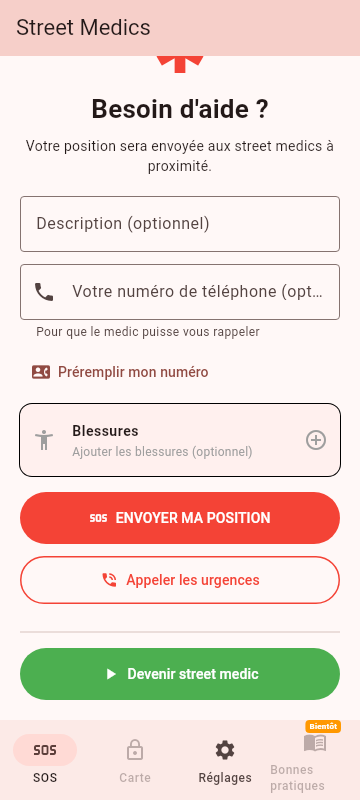
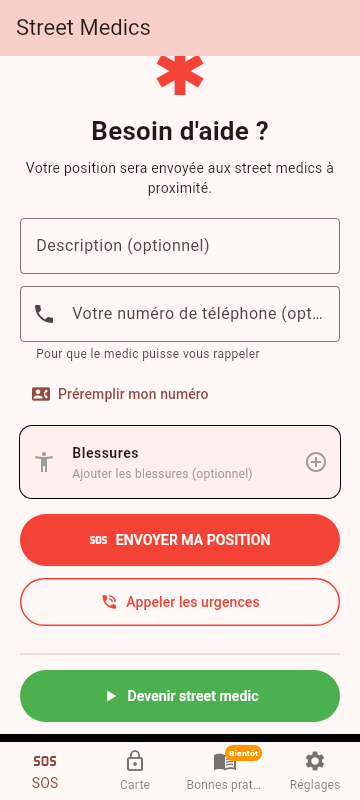
fix: BottomNavigationBar (labels centrés) + banderole Bientôt sur l'icône
- Remplace NavigationBar par BottomNavigationBar(type: fixed) pour centrer
  tous les labels (Material 3 NavigationBar ne centre que l'onglet actif)
- Banderole orange 'Bientôt' sur l'icône de l'onglet Bonnes pratiques
- Labels traduits via les clés tabSos/tabMap/tabPractices/tabSettings
- Tests adaptés: plus de NavigationBar, BottomNavigationBar.onTap

Changed region(s): [[0.0, 0.5, 1.0, 1.0], [0.0611, 0.0625, 0.9472, 0.5], [0.9167, 0.25, 0.9472, 0.2812]]

diff --git a/lib/main.dart b/lib/main.dart
@@ -258,56 +258,43 @@ class _MainScreenState extends State<MainScreen> {
           SettingsTab(),
         ],
       ),
-      bottomNavigationBar: NavigationBar(
-        selectedIndex: _selectedIndex,
-        onDestinationSelected: (i) {
+      bottomNavigationBar: BottomNavigationBar(
+        type: BottomNavigationBarType.fixed,
+        currentIndex: _selectedIndex,
+        onTap: (i) {
           // Onglet Plan réservé aux street medics en service ET aux patients
           // dont le SOS est pris en charge.
           if (i == 1 && !_mapAllowed) {
             showSnack(context, AppLocalizations.of(context).medicsOnly);
             return;
           }
+          // L'onglet Bonnes pratiques est grisé : inutile d'aller plus loin.
+          if (i == 2) return;
           setState(() => _selectedIndex = i);
         },
-        destinations: [
-          NavigationDestination(icon: const Icon(Icons.sos), label: t.tabSos),
-          NavigationDestination(
+        items: [
+          BottomNavigationBarItem(
+            icon: const Icon(Icons.sos),
+            label: t.tabSos,
+          ),
+          BottomNavigationBarItem(
             icon: Icon(_mapAllowed ? Icons.map : Icons.lock_outline),
-            enabled: _mapAllowed,
             label: t.tabMap,
           ),
-          NavigationDestination(
-              icon: const Icon(Icons.settings), label: t.tabSettings),
-          NavigationDestination(
-              icon: Stack(
-                clipBehavior: Clip.none,
-                children: [
-                  const Icon(Icons.menu_book),
-                  // Banderole « Coming Soon » sur l'icône
-                  Positioned(
-                    right: -14,
-                    top: -10,
-                    child: Container(
-                      padding: const EdgeInsets.symmetric(
-                          horizontal: 4, vertical: 1),
-                      decoration: BoxDecoration(
-                        color: Colors.orange,
-                        borderRadius: BorderRadius.circular(4),
-                      ),
-                      child: Text(
-                        'Bientôt',
-                        style: TextStyle(
-                          fontSize: 8,
-                          fontWeight: FontWeight.bold,
-                          color: Colors.white,
-                        ),
-                      ),
-                    ),
-                  ),
-                ],
+          BottomNavigationBarItem(
+            icon: Badge(
+              label: Text(
+                'Bientôt',
+                style: const TextStyle(fontSize: 8, color: Colors.white),
               ),
-              label: t.tabPractices,
-              enabled: false, // grisé : contenu pas encore prêt
+              backgroundColor: Colors.orange,
+              child: const Icon(Icons.menu_book),
+            ),
+            label: t.tabPractices,
+          ),
+          BottomNavigationBarItem(
+            icon: const Icon(Icons.settings),
+            label: t.tabSettings,
           ),
         ],
       ),

diff --git a/test/map_zoom_test.dart b/test/map_zoom_test.dart
@@ -28,12 +28,18 @@ void main() {
     await tester.pumpWidget(const StreetMedicsApp());
     await tester.pump(const Duration(milliseconds: 100));
 
+    // Fermer la popup « Autorisations nécessaire » si elle est ouverte.
+    final later = find.text('Plus tard');
+    if (later.evaluate().isNotEmpty) {
+      await tester.tap(later.first, warnIfMissed: false);
+      await tester.pump();
+      await tester.pump(const Duration(milliseconds: 400));
+    }
     // Aller sur l'onglet Carte via la barre de navigation.
-    // `pump()` et non `pumpAndSettle()` : la carte arme un `Timer.periodic`
     // de rafraîchissement qui ne s'arrête jamais, et `pumpAndSettle()` attend
     // qu'aucun timer ne soit actif — il boucle alors indéfiniment.
-    final nav = tester.widget<NavigationBar>(find.byType(NavigationBar));
-    nav.onDestinationSelected!(1);
+    final nav = tester.widget<BottomNavigationBar>(find.byType(BottomNavigationBar));
+    nav.onTap!(1);
     await tester.pump();
     await tester.pump(const Duration(milliseconds: 300));
 

diff --git a/test/map_controls_test.dart b/test/map_controls_test.dart
@@ -18,8 +18,16 @@ import 'package:street_medics_app/main.dart';
 /// indéfiniment et le test n'aboutit pas. `pump()` avance d'une frame, ce qui
 /// suffit à construire l'onglet.
 Future<void> selectTab(WidgetTester tester, int index) async {
-  final nav = tester.widget<NavigationBar>(find.byType(NavigationBar));
-  nav.onDestinationSelected!(index);
+  // Fermer la popup « Autorisations nécessaires » si elle est ouverte :
+  // elle masque la barre de navigation et empêche de taper sur les onglets.
+  final later = find.text('Plus tard');
+  if (later.evaluate().isNotEmpty) {
+    await tester.tap(later.first, warnIfMissed: false);
+    await tester.pump();
+    await tester.pump(const Duration(milliseconds: 400));
+  }
+  final nav = tester.widget<BottomNavigationBar>(find.byType(BottomNavigationBar));
+  nav.onTap!(index);
   await tester.pump();
   await tester.pump(const Duration(milliseconds: 300));
 }

diff --git a/test/ui_inventory_test.dart b/test/ui_inventory_test.dart
@@ -118,10 +118,10 @@ Future<void> shoot(WidgetTester tester, String name) async {
   });
 }
 
-/// Ouvre un onglet par son index (contourne le hit-test du NavigationBar).
+/// Ouvre un onglet par son index.
 Future<void> tab(WidgetTester tester, int i) async {
-  final nav = tester.widget<NavigationBar>(find.byType(NavigationBar));
-  nav.onDestinationSelected!(i);
+  final nav = tester.widget<BottomNavigationBar>(find.byType(BottomNavigationBar));
+  nav.onTap!(i);
   await tester.pump();
   await tester.pump(const Duration(milliseconds: 500));
 }
